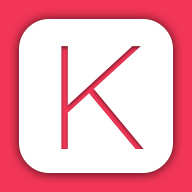
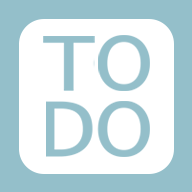
color, splash change

diff --git a/App.js b/App.js
@@ -9,6 +9,10 @@ import {
   Platform,
   ScrollView,
   AsyncStorage,
+  KeyboardAvoidingView,
+  // TouchableWithoutFeedback,
+  // Keyboard,
+  // Button,
 } from 'react-native';
 import { AppLoading } from 'expo';
 import ToDo from './ToDo';
@@ -71,44 +75,53 @@ export default class App extends React.Component {
       return <AppLoading />;
     }
     return (
-      <View style={styles.container}>
-        <StatusBar barStyle="light-content" />
+      <KeyboardAvoidingView
+        behavior={Platform.OS == 'ios' ? 'padding' : 'height'}
+        keyboardVerticalOffset={20}
+        style={styles.container}
+      >
+        <View style={styles.inner}>
+          <StatusBar barStyle="light-content" />
 
-        <Text style={styles.title}>To Do</Text>
-        <View style={styles.card}>
-          <TextInput
-            style={styles.input}
-            placeholder={'New To Do'}
-            value={newTodo}
-            onChangeText={this._controlNewToDo}
-            placeholderTextColor={'#999'}
-            returnKeyType={'done'}
-            autoCorrect={false}
-            onSubmitEditing={this._addToDo}
-            underlineColorAndroid={'transparent'} //3)
-          />
-          <ScrollView contentContainerStyle={styles.toDos}>
-            {Object.values(toDos)
-              .sort(function (a, b) {
-                //1)
-                if (a.hasOwnProperty('createdAt')) {
-                  return a.createdAt - b.createdAt;
-                }
-              })
-              .reverse()
-              .map((toDo) => (
-                <ToDo
-                  key={toDo.id}
-                  {...toDo}
-                  deleteToDo={this._deleteToDo}
-                  uncompleteTodo={this._uncompleteTodo}
-                  completeTodo={this._completeTodo}
-                  updateTodo={this._updateTodo}
-                />
-              ))}
-          </ScrollView>
+          <Text style={styles.title}>To Do</Text>
+          <View style={styles.card}>
+            <TextInput
+              style={styles.input}
+              placeholder={'New To Do'}
+              value={newTodo}
+              onChangeText={this._controlNewToDo}
+              placeholderTextColor={'#999'}
+              returnKeyType={'done'}
+              autoCorrect={false}
+              onSubmitEditing={this._addToDo}
+              underlineColorAndroid={'transparent'} //3)
+            />
+            <ScrollView
+              contentContainerStyle={styles.toDos}
+              keyboardShouldPersistTaps="always"
+            >
+              {Object.values(toDos)
+                .sort(function (a, b) {
+                  //1)
+                  if (a.hasOwnProperty('createdAt')) {
+                    return a.createdAt - b.createdAt;
+                  }
+                })
+                .reverse()
+                .map((toDo) => (
+                  <ToDo
+                    key={toDo.id}
+                    {...toDo}
+                    deleteToDo={this._deleteToDo}
+                    uncompleteTodo={this._uncompleteTodo}
+                    completeTodo={this._completeTodo}
+                    updateTodo={this._updateTodo}
+                  />
+                ))}
+            </ScrollView>
+          </View>
         </View>
-      </View>
+      </KeyboardAvoidingView>
     );
   }
 
@@ -237,22 +250,24 @@ export default class App extends React.Component {
 const styles = StyleSheet.create({
   container: {
     flex: 1,
-    backgroundColor: '#f23657',
+    backgroundColor: '#94BFCA',
     alignItems: 'center',
+  },
+  inner: {
+    flex: 1,
+    justifyContent: 'space-around',
   },
   title: {
     color: 'white',
-    fontSize: 30,
     marginTop: 50,
     fontWeight: '200',
+    fontSize: 36,
     marginBottom: 30,
   },
   card: {
-    backgroundColor: 'white',
+    // backgroundColor: 'white',
     flex: 1,
     width: width - 25,
-    borderTopLeftRadius: 10,
-    borderTopRightRadius: 10,
     ...Platform.select({
       ios: {
         shadowColor: 'rgba(50,50,50,0.5)',
@@ -269,30 +284,16 @@ const styles = StyleSheet.create({
     }),
   },
   input: {
-    padding: 20,
-    borderBottomColor: '#bbb',
     borderBottomWidth: StyleSheet.hairlineWidth,
-    fontSize: 25,
+    height: 60,
+    borderColor: '#bbb',
+    borderBottomWidth: 1,
+    marginBottom: 5,
+    padding: 20,
+    backgroundColor: 'white',
   },
   toDos: {
     alignItems: 'center',
+    backgroundColor: 'white',
   },
 });
-
-/*
-1) 완성/미완성 토글시 리스트 순서가 바뀌는 부분 해결하기 위해 sort함수 추가함
-2) 앱에서 뜨는 경고 Object.values 관련 에러가 있는데 앱이 처음 열릴 때 todo를 찾을 수 없기 때문임(즉, todo를 null로 보고 있기 때문)
-⇒ null은 object가 아니므로 parse를 할 수 없게 됨
-⇒ 따라서 빈객체를 넣어서, 나중에 투두를 다 삭제하거나 리스트가 없이 시작할때, toDos가 빈 객체가 되도록 함
-3) 안드로이드에서 TextInput을 클릭하면 밑줄생기는거 없애기 + ToDo.js의 TextInput에도 동일하게 적용해줌
-
-# 이렇게 수정했는데, 수정 전에 build했어~ 만약에 이 상태로 앱 실행하면 얼어버림
-엑스포의 작점은 코드를 빌드할때 apk위에 하지 않음. 빌드한 건 엑스포 클라이언트임. 이 때문에 열릴때마다 최신버전의 코드를 다운로드 할 수 있음
-이 방법으로 apk, ios 앱스토어를 업데이트하는거임
-이 때문에 다시 업데이트하고, 승인요청할 필요가 없어짐
-
-수정했으므로, 엑스포 dev tool에서 Publish or republish project눌러주면 수정이 반영되어 최신 상태를 업데이트함
-4) 
-5)
-
- */

diff --git a/ToDo.js b/ToDo.js
@@ -90,7 +90,10 @@ export default class ToDo extends React.Component {
               }}
             >
               <View style={styles.actionContainer}>
-                <Text style={styles.actionText}>❌</Text>
+                {/* <Text style={styles.actionText}>❌</Text> */}
+                <Text style={{ ...styles.actionText, ...styles.deleteText }}>
+                  X
+                </Text>
               </View>
             </TouchableOpacity>
           </View>
@@ -143,17 +146,18 @@ const styles = StyleSheet.create({
     justifyContent: 'space-between',
   },
   circle: {
-    width: 30,
-    height: 30,
-    borderRadius: 15,
+    width: 24,
+    height: 24,
+    borderRadius: 12,
     borderWidth: 3,
-    marginRight: 20,
+    marginRight: 16,
+    marginLeft: 5,
   },
   completedCircle: {
-    borderColor: '#bbb',
+    borderColor: '#CADEE3',
   },
   uncompletedCircle: {
-    borderColor: '#f23657',
+    borderColor: '#3E6B79',
   },
   text: {
     fontWeight: '600',
@@ -183,5 +187,12 @@ const styles = StyleSheet.create({
     width: width / 2,
     marginVertical: 15,
     paddingBottom: 5,
+  },
+  deleteText: {
+    color: '#4E8092',
+    fontSize: 20,
+    paddingLeft: 5,
+    paddingRight: 5,
+    fontWeight: '800',
   },
 });
